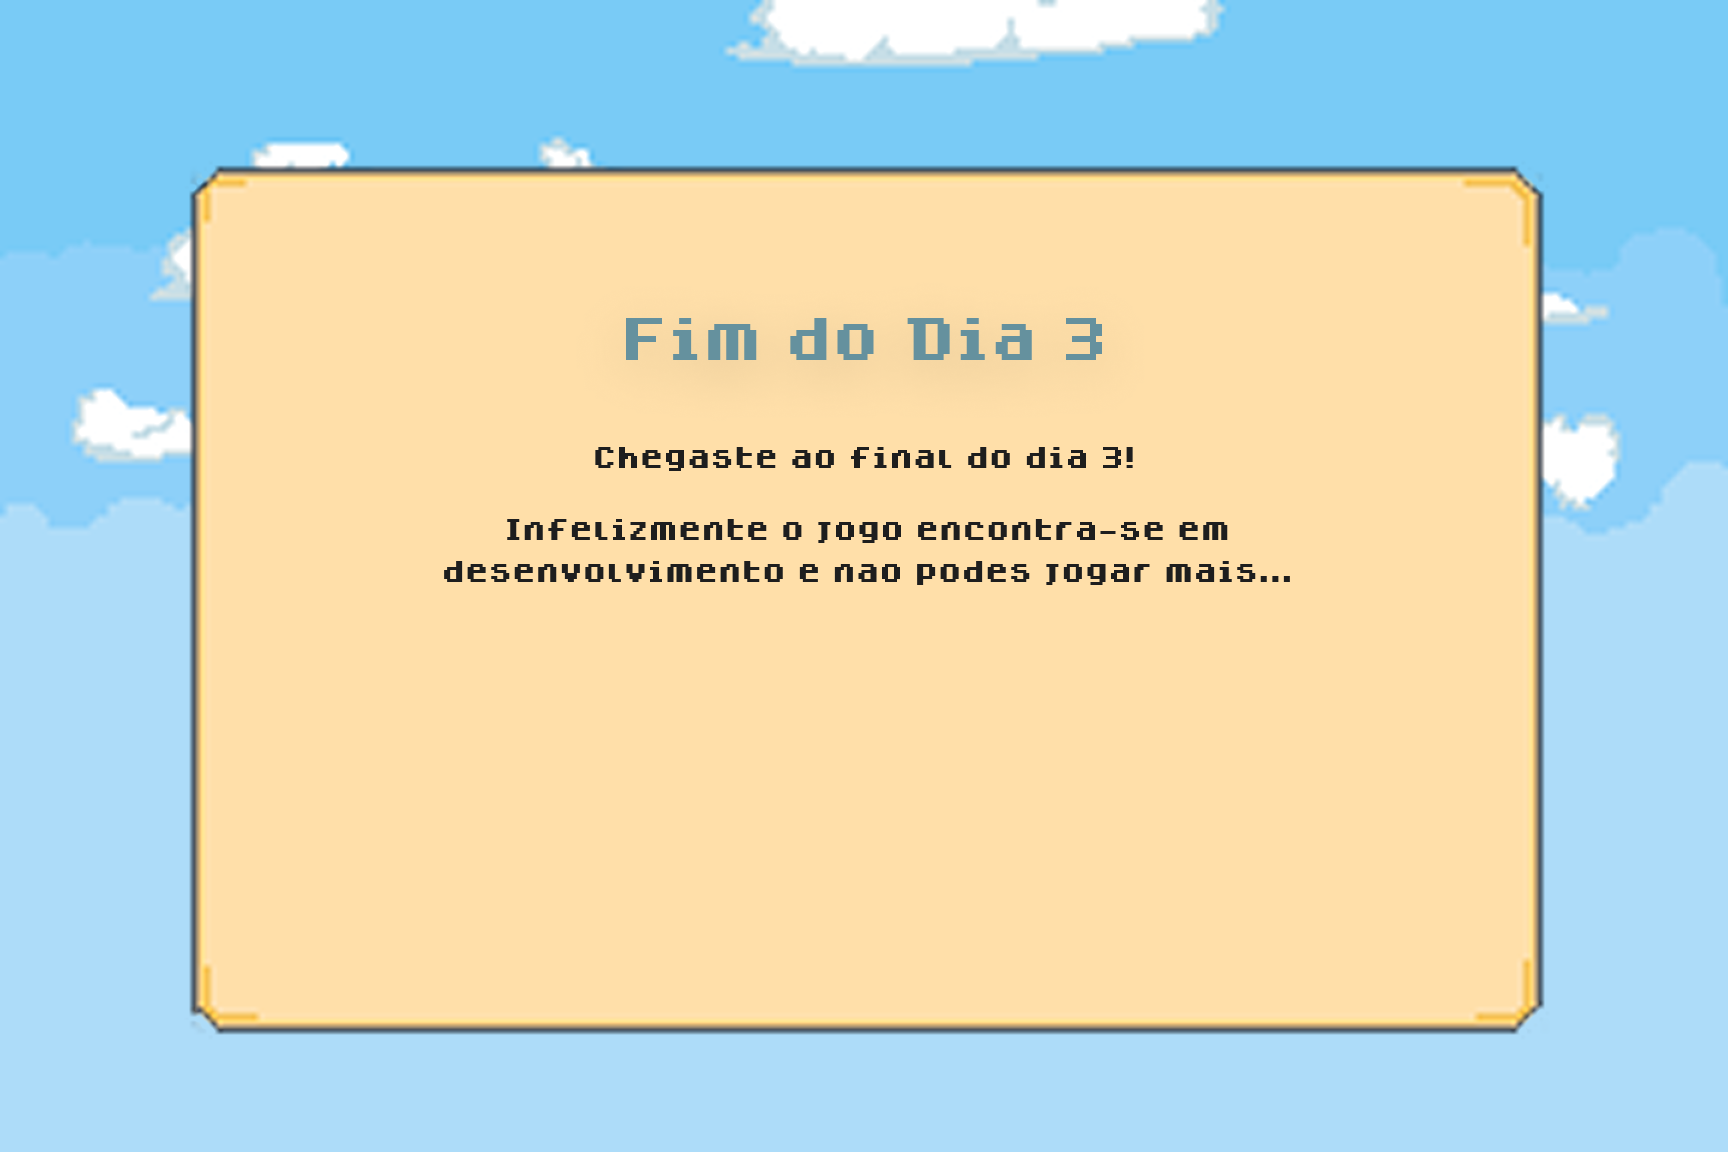
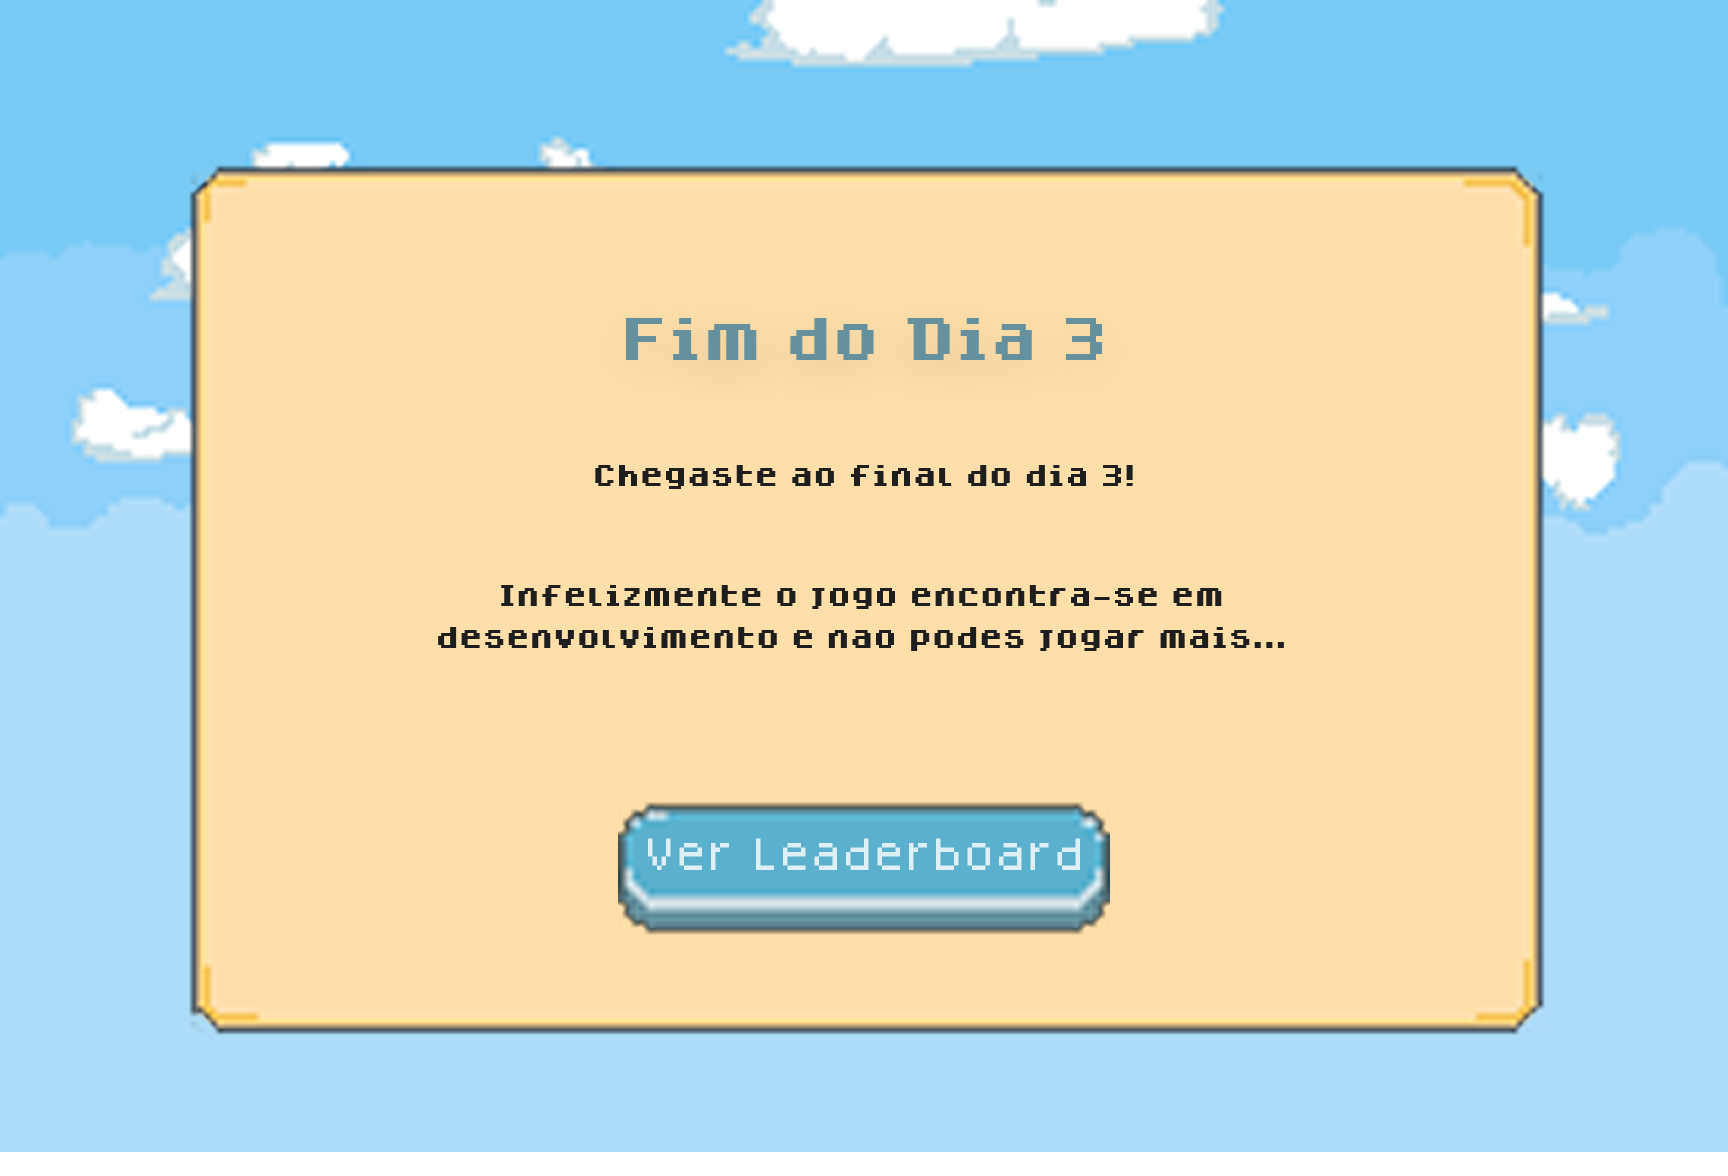
leaderboard logic

Changed region(s): [[0.25, 0.3673, 0.75, 0.551], [0.3438, 0.6735, 0.6562, 0.7959]]

diff --git a/iscte-sintra-simulator/game/scores/leaderboard.py b/iscte-sintra-simulator/game/scores/leaderboard.py
@@ -1,0 +1,39 @@
+import os
+
+class LeaderBoard:
+    def __init__(self):
+        self.file = "scores.txt"
+        self.leaderboard = []
+        
+    def load_leaderboard(self):
+        """Load the leaderboard from a text file or create it if it doesn't exist."""
+        if not os.path.exists(self.file):
+            return []
+         
+        with open(self.file, "r") as file:
+            lines = file.readlines()
+             
+        for line in lines:
+            if line.strip() == "":
+                continue
+            name, course, score = line.strip().split(";")
+            self.leaderboard.append({"Nome": name, "Curso": course, "Pontuação": int(score)})
+        
+        return self.leaderboard
+    
+    def save_leaderboard(self, leaderboard):
+        """Save all scores to the file and print top 10."""
+        # Sort the leaderboard by score in descending order
+        leaderboard.sort(key=lambda x: x["Pontuação"], reverse=True)
+        
+        # Save all scores to the file
+        with open(self.file, "w") as file:
+            for entry in leaderboard:
+                file.write(f"{entry['Nome']};{entry['Curso']};{entry['Pontuação']}\n")
+        
+        # Print the top 10
+        print("🏆 Top 10 Players:")
+        for idx, entry in enumerate(leaderboard[:10], start=1):
+            print(f"{idx}. {entry['Nome']} ({entry['Curso']}) — {entry['Pontuação']} pontos")
+            
+    def show_leaderboard:

diff --git a/iscte-sintra-simulator/game/main.py b/iscte-sintra-simulator/game/main.py
@@ -92,4 +92,7 @@ while True:
         cutscene = Cutscene(screen, 4)
         nextCena = cutscene.load()
         
+    elif nextCena == "end game":
+        nextCena = 
+        
     else: break
